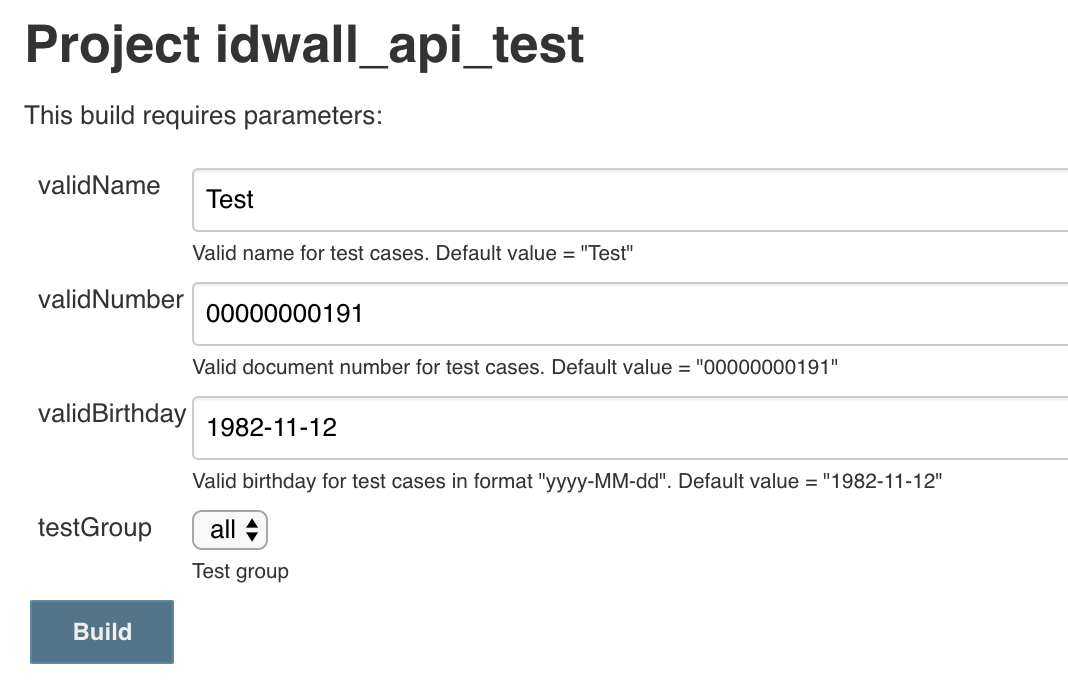
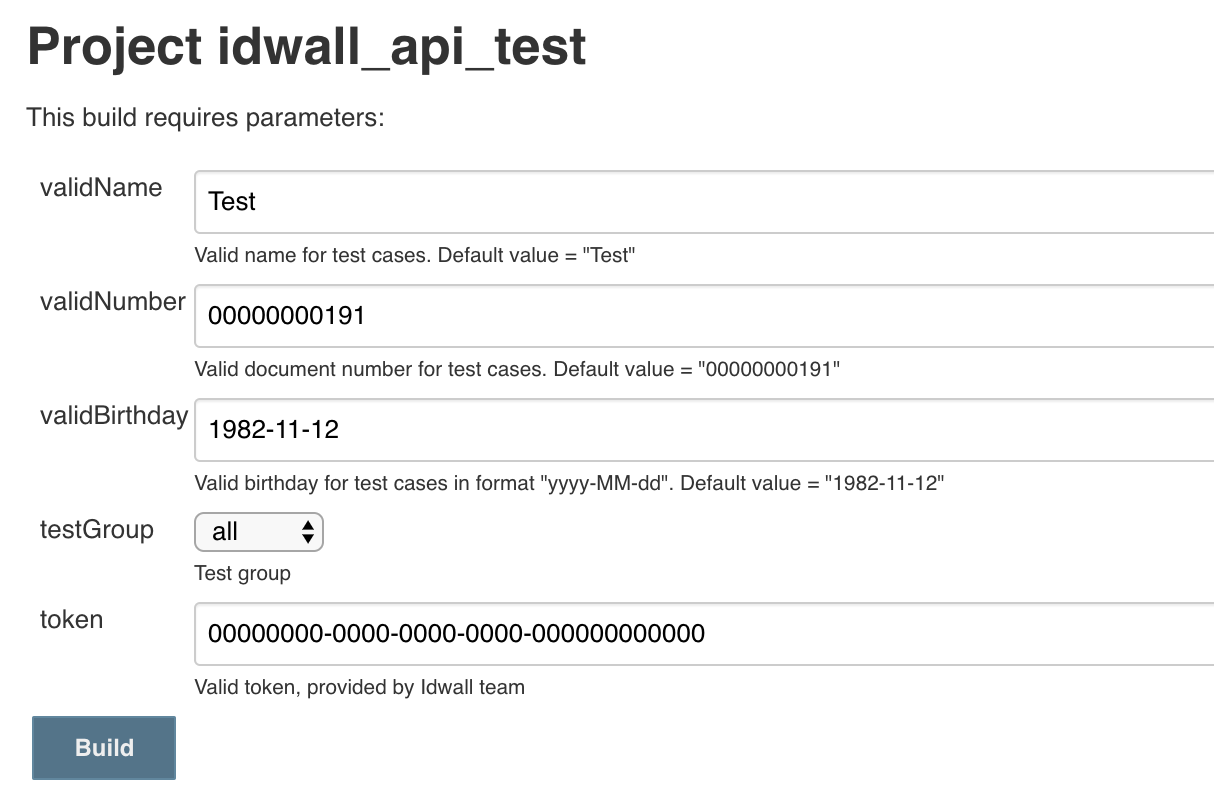
Implemented first test case for reports, update README.md

Changed region(s): [[0.0309, 0.2124, 1.0, 1.0], [0.0, 0.0303, 0.5562, 0.1821], [0.0309, 0.6373, 0.1236, 0.698]]

diff --git a/apis/src/test/java/reports/ReportsTestData.java b/apis/src/test/java/reports/ReportsTestData.java
@@ -1,0 +1,38 @@
+package reports;
+
+import dtos.ReportParametersDTO;
+import dtos.ReportRequestDTO;
+
+import java.time.LocalDate;
+import java.time.format.DateTimeFormatter;
+
+import static utilities.ProjectProperties.*;
+
+public class ReportsTestData {
+
+    private static class SingletonHolder {
+        public static final ReportsTestData instance = new ReportsTestData();
+    }
+
+    public static ReportsTestData getInstance() {
+        return SingletonHolder.instance;
+    }
+
+    public ReportRequestDTO getValidReportData() {
+        ReportParametersDTO parameters = getValidParameters();
+        ReportRequestDTO report = new ReportRequestDTO();
+        report.setMatriz("consultaPessoaDefault");
+        report.setParametros(parameters);
+        return report;
+    }
+
+    private ReportParametersDTO getValidParameters() {
+        ReportParametersDTO parameter = new ReportParametersDTO();
+        parameter.setCpf_nome(getProperty(VALID_NAME));
+        parameter.setCpf_numero(getProperty(VALID_NUMBER));
+        DateTimeFormatter formatter = DateTimeFormatter.ofPattern("dd/MM/yyyy");
+        String birthday = LocalDate.parse(getProperty(VALID_BIRTHDAY)).format(formatter);
+        parameter.setCpf_data_de_nascimento(birthday);
+        return parameter;
+    }
+}

diff --git a/apis/src/test/java/reports/ReportsTest.java b/apis/src/test/java/reports/ReportsTest.java
@@ -1,0 +1,34 @@
+package reports;
+
+import dtos.ResultValidDTO;
+import io.qameta.allure.Description;
+import io.qameta.allure.Severity;
+import io.qameta.allure.SeverityLevel;
+import org.junit.jupiter.api.BeforeAll;
+import org.junit.jupiter.api.Tag;
+import org.junit.jupiter.api.Tags;
+import org.junit.jupiter.api.Test;
+
+@Tags({@Tag("all"), @Tag("reports")})
+public class ReportsTest {
+
+    private static ReportsTestStep reportsTestStep;
+    private static ReportsTestData reportsTestData;
+    private static ReportTestAssertions reportsTestAssertions;
+
+    @BeforeAll
+    public static void setUp() {
+        reportsTestStep = ReportsTestStep.getInstance();
+        reportsTestData = ReportsTestData.getInstance();
+        reportsTestAssertions = ReportTestAssertions.getInstance();
+    }
+
+    @Test
+    @Description("Request a report with status VALID")
+    @Tag("blocker")
+    @Severity(SeverityLevel.BLOCKER)
+    public void requestReportStatusValid() {
+        ResultValidDTO result = reportsTestStep.createReport(reportsTestData.getValidReportData());
+        reportsTestAssertions.assertValidResult(result);
+    }
+}

diff --git a/apis/src/test/java/reports/ReportsTestStep.java b/apis/src/test/java/reports/ReportsTestStep.java
@@ -1,0 +1,31 @@
+package reports;
+
+import dtos.ReportRequestDTO;
+import dtos.ResultValidDTO;
+import utilities.RequestParams;
+
+import static java.net.HttpURLConnection.HTTP_OK;
+import static org.apache.http.HttpHeaders.CONTENT_TYPE;
+
+public class ReportsTestStep {
+
+    private static class SingletonHolder {
+        public static final ReportsTestStep instance = new ReportsTestStep();
+    }
+
+    public static ReportsTestStep getInstance() {
+        return SingletonHolder.instance;
+    }
+
+    public ResultValidDTO createReport(ReportRequestDTO request) {
+        return RequestParams.getInstance().getRequestParams()
+                .header(CONTENT_TYPE, "application/json")
+                .body(request)
+            .when()
+                .post("/relatorios")
+                .prettyPeek()
+            .then()
+                .statusCode(HTTP_OK)
+                .extract().as(ResultValidDTO.class);
+    }
+}

diff --git a/apis/src/test/java/utilities/ProjectProperties.java b/apis/src/test/java/utilities/ProjectProperties.java
@@ -1,0 +1,33 @@
+package utilities;
+
+import java.io.IOException;
+import java.util.Properties;
+
+public enum ProjectProperties {
+    VALID_NAME("validName"),
+    VALID_NUMBER("validNumber"),
+    VALID_BIRTHDAY("validBirthday"),
+    BASE_URL("base.url"),
+    TOKEN("token");
+
+    private final String value;
+
+    ProjectProperties(String value) {
+        this.value = value;
+    }
+
+    private String getValue() {
+        return value;
+    }
+
+    public static String getProperty(ProjectProperties property) {
+        try {
+            Properties props = new Properties();
+            props.load(ProjectProperties.class.getClassLoader().getResourceAsStream("application.properties"));
+            return props.getProperty(property.getValue());
+        } catch (IOException e) {
+            e.printStackTrace();
+            return null;
+        }
+    }
+}

diff --git a/apis/src/test/java/reports/ReportTestAssertions.java b/apis/src/test/java/reports/ReportTestAssertions.java
@@ -1,0 +1,26 @@
+package reports;
+
+import dtos.ResultValidDTO;
+
+import static java.net.HttpURLConnection.HTTP_OK;
+import static org.hamcrest.MatcherAssert.assertThat;
+import static org.hamcrest.Matchers.is;
+import static org.hamcrest.Matchers.not;
+import static org.hamcrest.Matchers.nullValue;
+
+public class ReportTestAssertions {
+
+    private static class SingletonHolder {
+        public static final ReportTestAssertions instance = new ReportTestAssertions();
+    }
+
+    public static ReportTestAssertions getInstance() {
+        return SingletonHolder.instance;
+    }
+
+    public void assertValidResult(ResultValidDTO result) {
+        assertThat(result.getStatus_code(), is(HTTP_OK));
+        assertThat(result.getResult(), not(nullValue()));
+        assertThat(result.getResult().getNumero(), not(nullValue()));
+    }
+}

diff --git a/apis/src/main/java/dtos/ReportParametersDTO.java b/apis/src/main/java/dtos/ReportParametersDTO.java
@@ -1,0 +1,32 @@
+package dtos;
+
+public class ReportParametersDTO {
+
+    private String cpf_data_de_nascimento;
+    private String cpf_nome;
+    private String cpf_numero;
+
+    public String getCpf_data_de_nascimento() {
+        return cpf_data_de_nascimento;
+    }
+
+    public void setCpf_data_de_nascimento(String cpf_data_de_nascimento) {
+        this.cpf_data_de_nascimento = cpf_data_de_nascimento;
+    }
+
+    public String getCpf_nome() {
+        return cpf_nome;
+    }
+
+    public void setCpf_nome(String cpf_nome) {
+        this.cpf_nome = cpf_nome;
+    }
+
+    public String getCpf_numero() {
+        return cpf_numero;
+    }
+
+    public void setCpf_numero(String cpf_numero) {
+        this.cpf_numero = cpf_numero;
+    }
+}

diff --git a/apis/src/test/java/utilities/RequestParams.java b/apis/src/test/java/utilities/RequestParams.java
@@ -1,0 +1,25 @@
+package utilities;
+
+import io.restassured.specification.RequestSpecification;
+
+import static io.restassured.RestAssured.given;
+import static org.apache.http.HttpHeaders.AUTHORIZATION;
+import static utilities.ProjectProperties.*;
+
+public class RequestParams {
+
+    private static class SingletonHolder {
+        public static final RequestParams instance = new RequestParams();
+    }
+
+    public static RequestParams getInstance() {
+        return SingletonHolder.instance;
+    }
+
+    public RequestSpecification getRequestParams() {
+        return given()
+                .baseUri(getProperty(BASE_URL))
+                .header(AUTHORIZATION, getProperty(TOKEN))
+                .log().all();
+    }
+}

diff --git a/apis/src/main/java/dtos/ResultErrorDTO.java b/apis/src/main/java/dtos/ResultErrorDTO.java
@@ -1,0 +1,32 @@
+package dtos;
+
+public class ResultErrorDTO extends ResultDTO {
+
+    private String error;
+    private String message;
+    private ValidationDTO validation;
+
+    public String getError() {
+        return error;
+    }
+
+    public void setError(String error) {
+        this.error = error;
+    }
+
+    public String getMessage() {
+        return message;
+    }
+
+    public void setMessage(String message) {
+        this.message = message;
+    }
+
+    public ValidationDTO getValidation() {
+        return validation;
+    }
+
+    public void setValidation(ValidationDTO validation) {
+        this.validation = validation;
+    }
+}

diff --git a/apis/src/main/java/dtos/ReportRequestDTO.java b/apis/src/main/java/dtos/ReportRequestDTO.java
@@ -1,0 +1,23 @@
+package dtos;
+
+public class ReportRequestDTO {
+
+    private String matriz;
+    private ReportParametersDTO parametros;
+
+    public String getMatriz() {
+        return matriz;
+    }
+
+    public void setMatriz(String matriz) {
+        this.matriz = matriz;
+    }
+
+    public ReportParametersDTO getParametros() {
+        return parametros;
+    }
+
+    public void setParametros(ReportParametersDTO parametros) {
+        this.parametros = parametros;
+    }
+}

diff --git a/apis/src/main/java/dtos/ValidationDTO.java b/apis/src/main/java/dtos/ValidationDTO.java
@@ -1,0 +1,25 @@
+package dtos;
+
+import java.util.List;
+
+public class ValidationDTO {
+
+    private String source;
+    private List<String> keys;
+
+    public String getSource() {
+        return source;
+    }
+
+    public void setSource(String source) {
+        this.source = source;
+    }
+
+    public List<String> getKeys() {
+        return keys;
+    }
+
+    public void setKeys(List<String> keys) {
+        this.keys = keys;
+    }
+}

diff --git a/apis/src/main/java/dtos/ResultValidDTO.java b/apis/src/main/java/dtos/ResultValidDTO.java
@@ -1,0 +1,14 @@
+package dtos;
+
+public class ResultValidDTO extends ResultDTO {
+
+    private BatchNumberDTO result;
+
+    public BatchNumberDTO getResult() {
+        return result;
+    }
+
+    public void setResult(BatchNumberDTO result) {
+        this.result = result;
+    }
+}

diff --git a/apis/src/main/java/dtos/ResultDTO.java b/apis/src/main/java/dtos/ResultDTO.java
@@ -1,0 +1,14 @@
+package dtos;
+
+public class ResultDTO {
+
+    private Integer status_code;
+
+    public Integer getStatus_code() {
+        return status_code;
+    }
+
+    public void setStatus_code(Integer status_code) {
+        this.status_code = status_code;
+    }
+}
